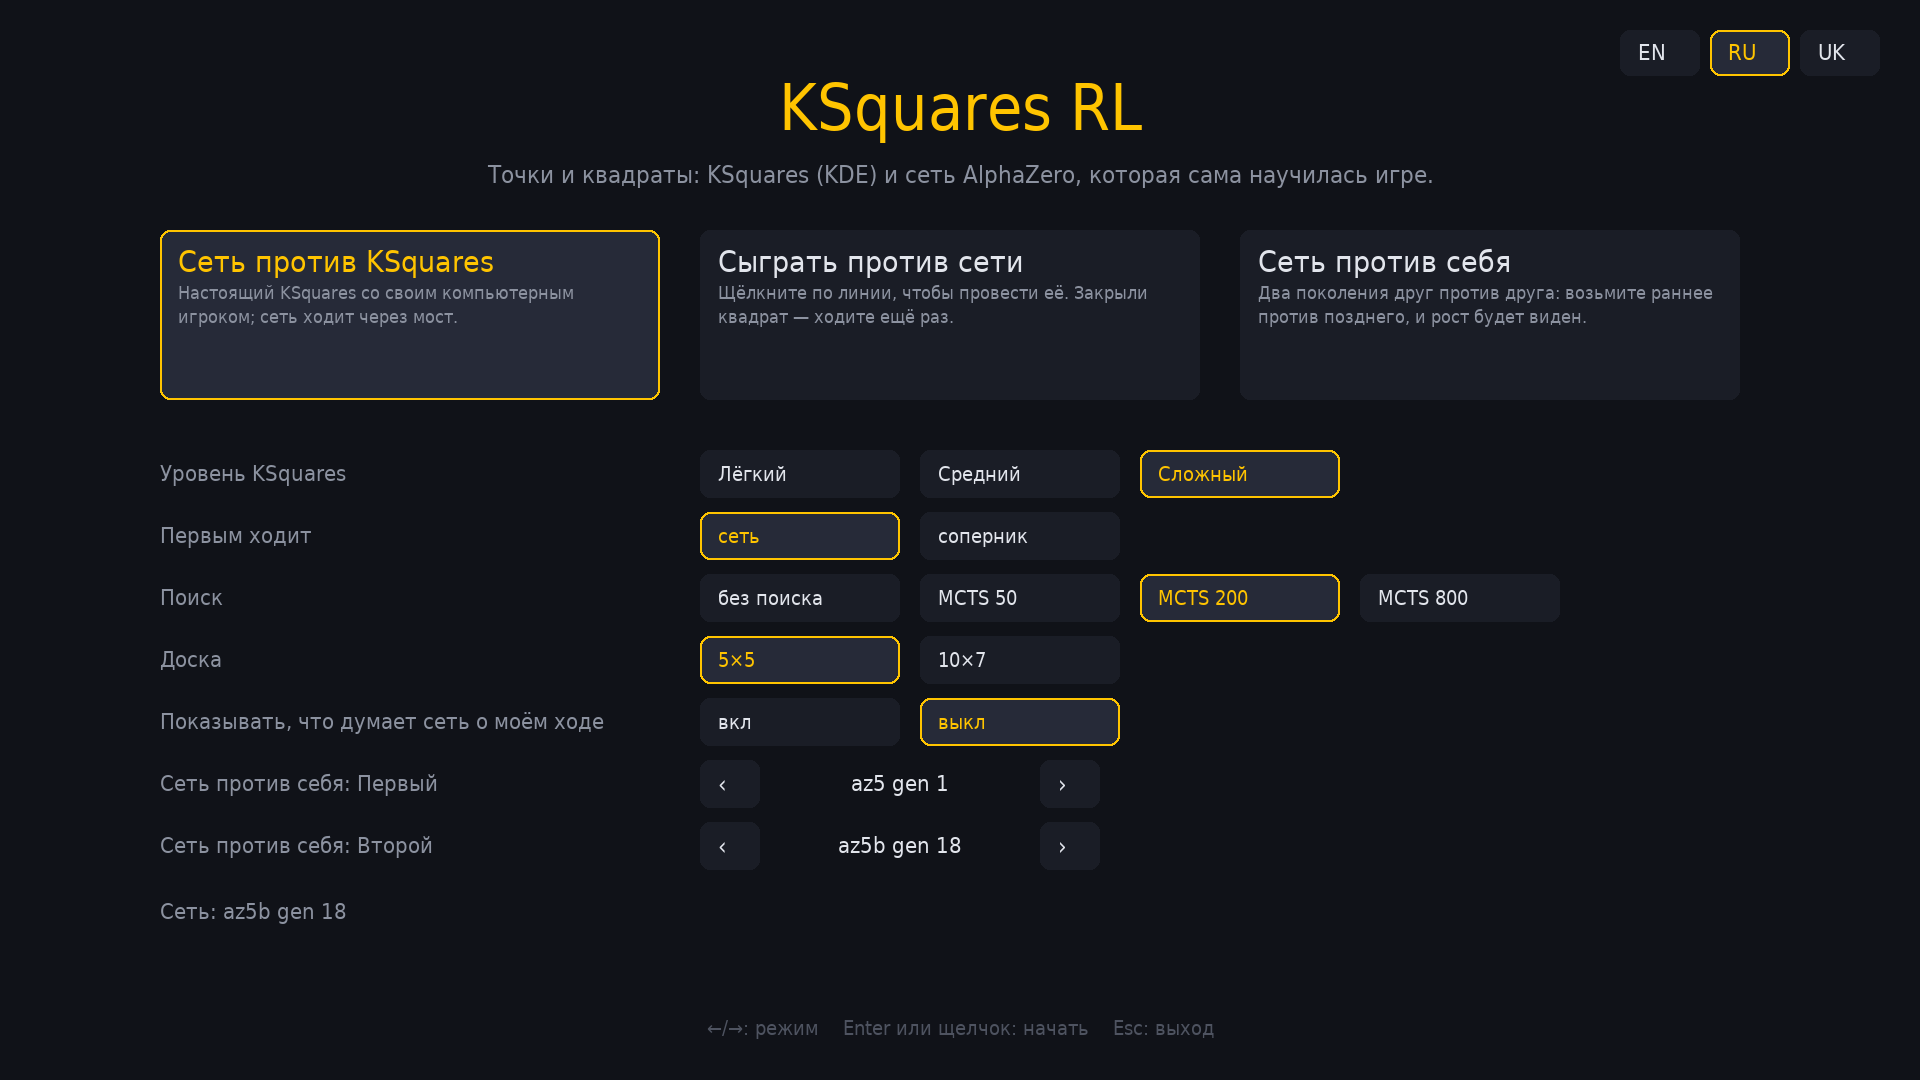
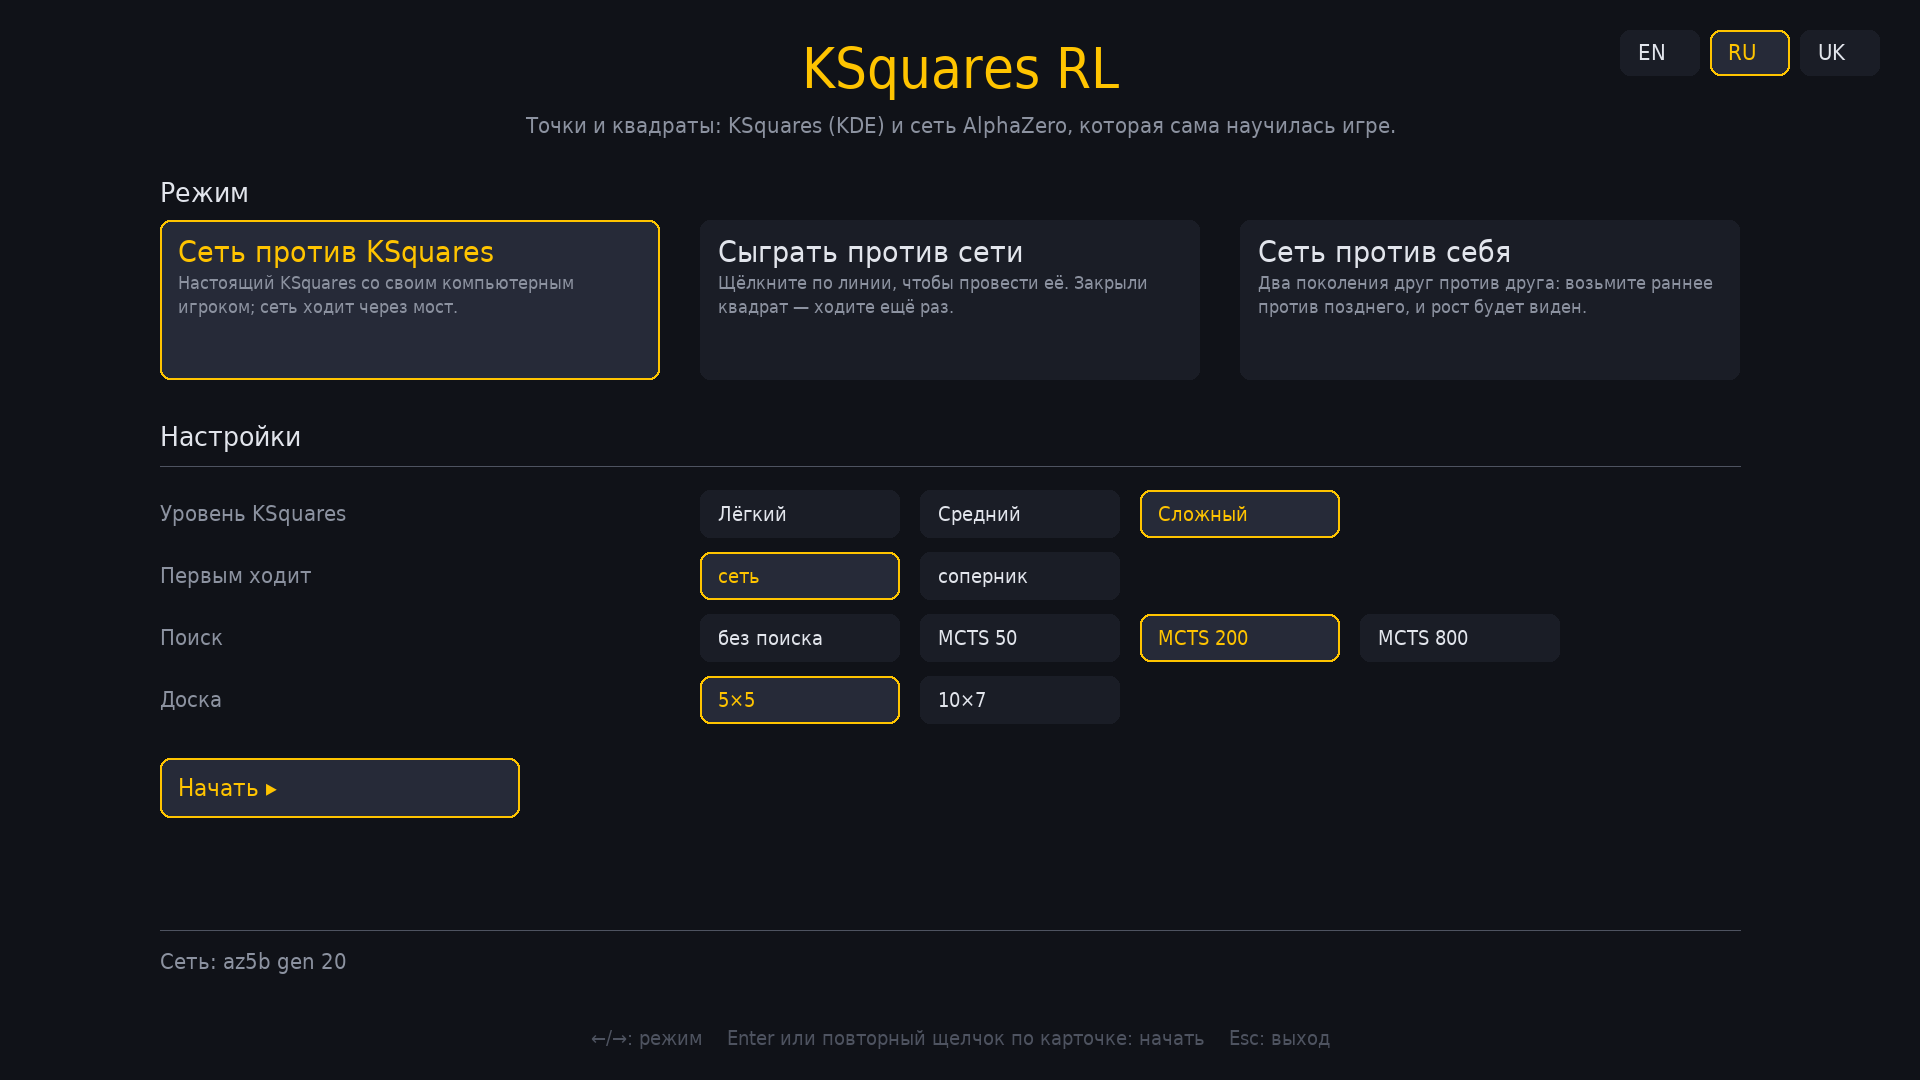
App menu: modes on top, the selected mode's settings below, Start button

diff --git a/scripts/launcher.py b/scripts/launcher.py
@@ -231,42 +231,62 @@ class App:
 
     # --- menu ---------------------------------------------------------------------
 
+    # the settings each mode uses, in this order
+    MODE_ROWS = {"ksquares": ("level", "first", "search", "board"),
+                 "play": ("first", "search", "board", "show_mine"),
+                 "self": ("gen_a", "gen_b", "search", "board")}
+
     def draw_menu(self):
+        pg = self.pg
         s = self.settings
-        self.text("KSquares RL", (W / 2, 70), 64, ACCENT, "midtop")
-        self.text(self.L("subtitle"), (W / 2, 160), 24, DIM, "midtop")
+        self.text("KSquares RL", (W / 2, 36), 56, ACCENT, "midtop")
+        self.text(self.L("subtitle"), (W / 2, 112), 22, DIM, "midtop")
         for i, lang in enumerate(i18n.LANGS):
             self.button(f"lang:{lang}", (W - 300 + i * 90, 30, 80, 46), i18n.LABELS[lang], s["lang"] == lang)
+        # modes
+        self.text(self.L("modes_title"), (160, 176), 28, FG)
         for i, m in enumerate(MODES):
-            self.button(f"mode:{m}", (160 + i * 540, 230, 500, 170), self.L(f"mode_{m}"), s["mode"] == m,
+            self.button(f"mode:{m}", (160 + i * 540, 220, 500, 160), self.L(f"mode_{m}"), s["mode"] == m,
                         size=30, hint=self.L(f"mode_{m}_hint"))
-        y = 450
-        rows = [
-            ("level", [(f"level:{k}", self.L(f"level_{k}"), s["level"] == k) for k in range(3)]),
-            ("first", [("first:1", self.L("first_net"), s["net_first"]),
-                       ("first:0", self.L("first_other"), not s["net_first"])]),
-            ("search", [(f"sims:{n}", self.L("sims", n=n) if n else self.L("no_search"), s["sims"] == n)
-                        for n in self.cfg["sims_choices"]]),
-            ("board", [(f"size:{i}", f"{bw}×{bh}", s["size"] == i)
-                       for i, (bw, bh) in enumerate(self.cfg["board_sizes"])]),
-            ("show_mine", [("mine:1", self.L("on"), s["show_mine"]), ("mine:0", self.L("off"), not s["show_mine"])]),
-        ]
-        for key, opts in rows:
-            self.text(self.L(key), (160, y + 10), 22, DIM)
-            for j, (name, label, act) in enumerate(opts):
-                self.button(name, (700 + j * 220, y, 200, 48), label, act, size=20)
+        # settings of the selected mode
+        y = 420
+        self.text(self.L("settings_title"), (160, y), 28, FG)
+        pg.draw.line(self.screen, FAINT, (160, y + 46), (W - 180, y + 46), 1)
+        y += 70
+        for key in self.MODE_ROWS[s["mode"]]:
+            if key in ("gen_a", "gen_b"):
+                self.text(self.L("gen_first" if key == "gen_a" else "gen_second"), (160, y + 10), 22, DIM)
+                self.button(f"{key}:-1", (700, y, 60, 48), "‹", size=24)
+                self.text(s[key] or "—", (900, y + 10), 22, FG, "midtop")
+                self.button(f"{key}:1", (1040, y, 60, 48), "›", size=24)
+            else:
+                self.text(self.L(key), (160, y + 10), 22, DIM)
+                for j, (name, label, act) in enumerate(self.options(key)):
+                    self.button(name, (700 + j * 220, y, 200, 48), label, act, size=20)
             y += 62
-        for key, which in (("gen_first", "gen_a"), ("gen_second", "gen_b")):
-            self.text(f"{self.L('mode_self')}: {self.L(key)}", (160, y + 10), 22, DIM)
-            self.button(f"{which}:-1", (700, y, 60, 48), "‹", size=24)
-            self.text(s[which] or "—", (900, y + 10), 22, FG, "midtop")
-            self.button(f"{which}:1", (1040, y, 60, 48), "›", size=24)
-            y += 62
-        if self.best:
-            self.text(self.L("network", label=f"{self.best['run']} gen {self.best['gen']}"), (160, y + 14), 22, DIM)
+        self.button("start", (160, y + 20, 360, 60), self.L("start"), True, size=24)
         if self.message:
-            self.wrap(self.message, (160, y + 60), 1600, 22, RED)
-        self.text(self.L("menu_keys"), (W / 2, H - 40), 20, FAINT, "midbottom")
+            self.wrap(self.message, (560, y + 26), W - 740, 20, RED)
+        # common
+        pg.draw.line(self.screen, FAINT, (160, 930), (W - 180, 930), 1)
+        if self.best:
+            self.text(self.L("network", label=f"{self.best['run']} gen {self.best['gen']}"), (160, 948), 22, DIM)
+        self.text(self.L("menu_keys"), (W / 2, H - 30), 20, FAINT, "midbottom")
+
+    def options(self, key):
+        """(button name, label, active) for one settings row."""
+        s = self.settings
+        if key == "level":
+            return [(f"level:{k}", self.L(f"level_{k}"), s["level"] == k) for k in range(3)]
+        if key == "first":
+            return [("first:1", self.L("first_net"), s["net_first"]),
+                    ("first:0", self.L("first_you" if s["mode"] == "play" else "first_other"), not s["net_first"])]
+        if key == "search":
+            return [(f"sims:{n}", self.L("sims", n=n) if n else self.L("no_search"), s["sims"] == n)
+                    for n in self.cfg["sims_choices"]]
+        if key == "board":
+            return [(f"size:{i}", f"{bw}×{bh}", s["size"] == i) for i, (bw, bh) in enumerate(self.cfg["board_sizes"])]
+        return [("mine:1", self.L("on"), s["show_mine"]), ("mine:0", self.L("off"), not s["show_mine"])]
 
     def menu_click(self, name):
         s = self.settings
@@ -274,7 +294,13 @@ class App:
         if kind == "lang":
             s["lang"] = val
         elif kind == "mode":
-            self.start(val)
+            if s["mode"] == val:
+                self.start(val)   # a second click on the selected card starts it
+            else:
+                s["mode"] = val
+                self.message = None
+        elif kind == "start":
+            self.start(s["mode"])
         elif kind == "level":
             s["level"] = int(val)
         elif kind == "first":

diff --git a/launcher/i18n.py b/launcher/i18n.py
@@ -51,6 +51,7 @@ STRINGS = {
     "first": {"en": "Moves first", "ru": "Первым ходит", "uk": "Першим ходить"},
     "first_net": {"en": "network", "ru": "сеть", "uk": "мережа"},
     "first_other": {"en": "opponent", "ru": "соперник", "uk": "суперник"},
+    "first_you": {"en": "you", "ru": "вы", "uk": "ви"},
     "search": {"en": "Search", "ru": "Поиск", "uk": "Пошук"},
     "no_search": {"en": "none", "ru": "без поиска", "uk": "без пошуку"},
     "sims": {"en": lambda n: f"MCTS {n}", "ru": lambda n: f"MCTS {n}", "uk": lambda n: f"MCTS {n}"},
@@ -58,14 +59,17 @@ STRINGS = {
     "show_mine": {"en": "Show what the network thinks of my move",
                   "ru": "Показывать, что думает сеть о моём ходе",
                   "uk": "Показувати, що думає мережа про мій хід"},
-    "gen_first": {"en": "First", "ru": "Первый", "uk": "Перший"},
-    "gen_second": {"en": "Second", "ru": "Второй", "uk": "Другий"},
+    "gen_first": {"en": "First player", "ru": "Первый игрок", "uk": "Перший гравець"},
+    "gen_second": {"en": "Second player", "ru": "Второй игрок", "uk": "Другий гравець"},
     "network": {"en": "Network: {label}", "ru": "Сеть: {label}", "uk": "Мережа: {label}"},
     "on": {"en": "on", "ru": "вкл", "uk": "увім"},
     "off": {"en": "off", "ru": "выкл", "uk": "вимк"},
-    "menu_keys": {"en": "←/→: mode    Enter or click: start    Esc: quit",
-                  "ru": "←/→: режим    Enter или щелчок: начать    Esc: выход",
-                  "uk": "←/→: режим    Enter або клацання: почати    Esc: вихід"},
+    "menu_keys": {"en": "←/→: mode    Enter or a second click on the card: start    Esc: quit",
+                  "ru": "←/→: режим    Enter или повторный щелчок по карточке: начать    Esc: выход",
+                  "uk": "←/→: режим    Enter або повторне клацання по картці: почати    Esc: вихід"},
+    "modes_title": {"en": "Mode", "ru": "Режим", "uk": "Режим"},
+    "settings_title": {"en": "Settings", "ru": "Настройки", "uk": "Налаштування"},
+    "start": {"en": "Start ▸", "ru": "Начать ▸", "uk": "Почати ▸"},
     # --- game ------------------------------------------------------------------
     "you": {"en": "You", "ru": "Вы", "uk": "Ви"},
     "ksquares_player": {"en": "KSquares {level}", "ru": "KSquares {level}", "uk": "KSquares {level}"},

diff --git a/tests/test_app.py b/tests/test_app.py
@@ -155,3 +155,29 @@ def test_app_clean_exit():
                           "--sims", "0", "--moves", "8", "--linger", "0.2"], env=env)
     assert p.wait(timeout=180) == 0
     assert _children(p.pid) == []
+
+
+def test_menu_rows_follow_the_mode(tmp_path, monkeypatch):
+    """Only the selected mode's settings are on the menu; a click on another
+    card selects it, a second click (or Start) would start it."""
+    monkeypatch.setenv("XDG_CONFIG_HOME", str(tmp_path))
+    import importlib.util
+
+    spec = importlib.util.spec_from_file_location("launcher_app", ROOT / "scripts/launcher.py")
+    app_mod = importlib.util.module_from_spec(spec)
+    spec.loader.exec_module(app_mod)
+    app = app_mod.App(app_mod.parse(["--lang", "en"]), headless=True)
+    try:
+        rows = {}
+        for mode in app_mod.MODES:
+            app.settings["mode"] = mode
+            app.frame()
+            rows[mode] = {n.split(":")[0] for n in app.buttons}
+        assert {"level", "first", "sims", "size"} <= rows["ksquares"] and not rows["ksquares"] & {"mine", "gen_a"}
+        assert {"first", "sims", "size", "mine"} <= rows["play"] and not rows["play"] & {"level", "gen_a"}
+        assert {"gen_a", "gen_b", "sims", "size"} <= rows["self"] and not rows["self"] & {"level", "first", "mine"}
+        app.settings["mode"] = "self"
+        app.menu_click("mode:play")
+        assert app.settings["mode"] == "play" and app.screen_name == "menu"
+    finally:
+        app.pg.quit()

diff --git a/docs/overnight.md b/docs/overnight.md
@@ -440,3 +440,9 @@ Ideas for later:
   settings); the game-over frame is published before `over` is set.
   Two games against KSquares Hard with MCTS 200 (az5b gen 18): 13:11 as
   first player, 14:11 as second (docs/app_ksquares_end.png).
+- Menu split in two: "Mode" with the three cards, then "Settings" under a
+  thin rule with only the selected mode's rows (vs KSquares: level, first,
+  search, board; play: first, search, board, show my move; vs itself: the
+  two generations, search, board), a Start button, and the common
+  "Network: ..." line at the bottom. A click on a card selects it, a
+  second click, Start or Enter starts it.
